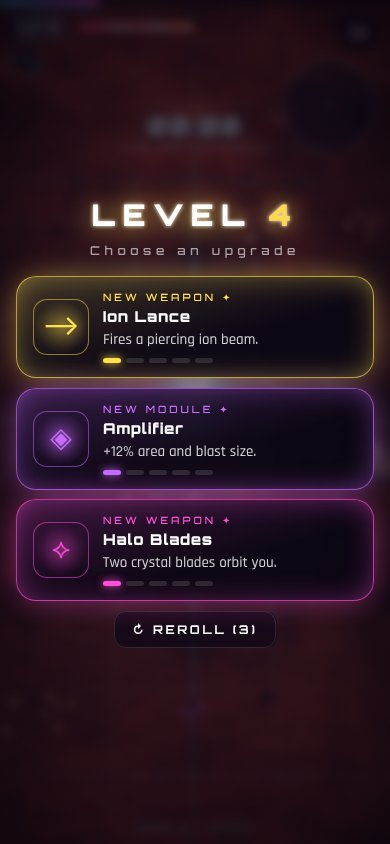
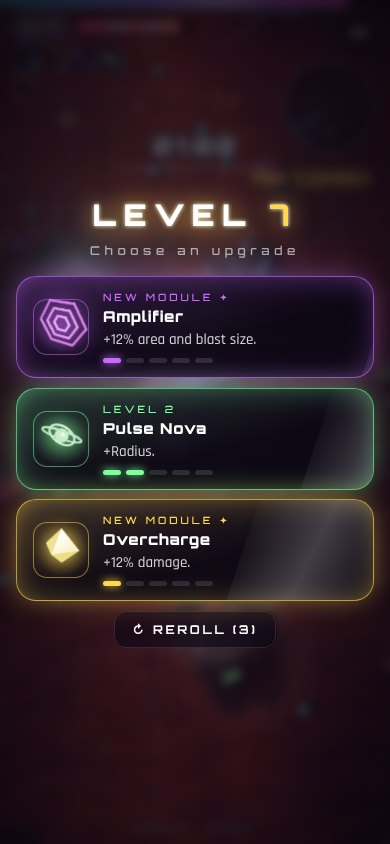
Full-res capture flag, refreshed README screenshots, devlog

diff --git a/src/game/Game.ts b/src/game/Game.ts
@@ -739,7 +739,13 @@ export class Game {
   private qWinRaw = 0;
   private qUpVotes = 0;
   private qFloorT = 0;
+  /** Pin full resolution (screenshots, benchmarks): ?fixedres or set from the console. */
+  fixedRes = new URLSearchParams(location.search).has('fixedres');
   private autoQuality(_dt: number, rawMs: number) {
+    if (this.fixedRes) {
+      if (this.r.renderScale < 1) this.r.setRenderScale(1);
+      return;
+    }
     if (this.state !== 'play' && this.state !== 'menu') return;
     if (rawMs <= 0 || rawMs > 1000) return; // tab was hidden
     this.qWinRaw += rawMs;

diff --git a/DEVLOG.md b/DEVLOG.md
@@ -75,7 +75,7 @@ Three-day build. Each session picks up the next unchecked items, playtests with 
 - [x] Arabic language option (RTL-aware UI, Cairo font, every screen, codex lore and in-run text)
 - [x] Run summary share card (frame snapshot + stats, download / native share)
 - [x] Story intro: typewriter mission briefing on first launch (skippable)
-- [~] Perf pass: instance colors only uploaded on change (sync ~0.9 ms at 500 enemies, sim ~2.3 ms at 750); still to check particle caps on phones
+- [x] Perf pass: instance colors only uploaded on change (sync ~0.9 ms at 500 enemies, sim ~2.3 ms at 750); particle/smoke soft caps on LOW
 
 ### Day 3 — polish & ship
 - [x] Menu/controller navigation (D-pad/arrows + A/Enter, B/Esc back), settings from main menu, control reference
@@ -85,6 +85,7 @@ Three-day build. Each session picks up the next unchecked items, playtests with 
 - [ ] Full QA pass (desktop + phone sizes), README with screenshots, GitHub Pages deploy
 
 ## Session log
+- **S19 (Nov 11 evening)**: molten battle-damage cracks on enemies and bosses that spread as HP drops; procedural blast scars (ragged soot, radial streaks, cooling embers, per-scar variety); elite affix ambience (healing motes, volatile embers/smoke that intensify, shield sparkles); LOW-quality particle/smoke caps for phones; `?fixedres` for captures; README screenshots refreshed.
 - **S18b (Nov 11 evening)**: Arabic language (Settings → Language; auto-picked for Arabic browsers): 330+ strings incl. codex lore, number-aware lookup, RTL panels that keep the 3D framing, reading-direction arrows; fixed default-HIGH boot never applying its tier (SMAA and full-res AO were still on).
 - **S18 (Nov 11 afternoon)**: GPU audit on a real integrated GPU (Radeon, 1920x889: scene 55 ms, GTAO 56 ms, SMAA 10 ms per frame). Added GPU timer queries, dynamic resolution (50–100%, 60 fps budget), half-res GTAO with fewer taps on HIGH, FXAA instead of SMAA on HIGH, HIGH pixel ratio capped at 1.25, Voronoi fissures skipped outside the arena, frozen frames held behind blurred level-up/pause overlays, F3 perf overlay. Texel-snapped shadow frustum (no shadow crawl), hit-stop lens punch-in, comet streaks on magnetised crystals, idling engine flames on the hangar ship.
 - **S17b (Nov 11 afternoon)**: GitHub Pages enabled (source: GitHub Actions); first live deploy.
